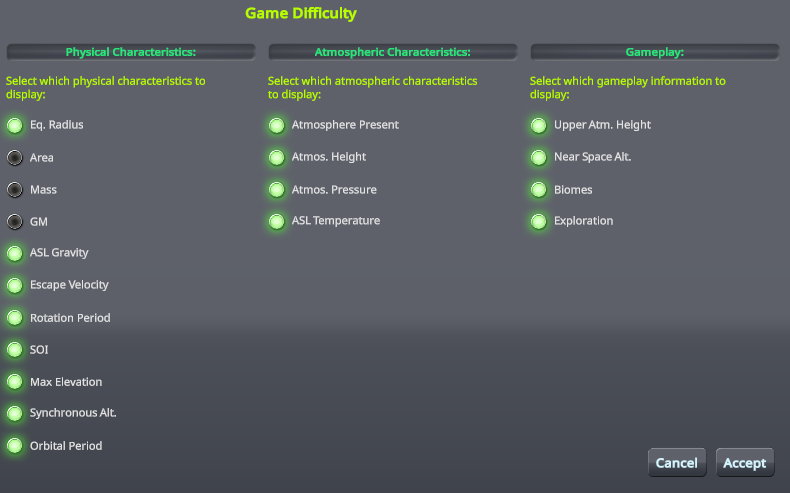
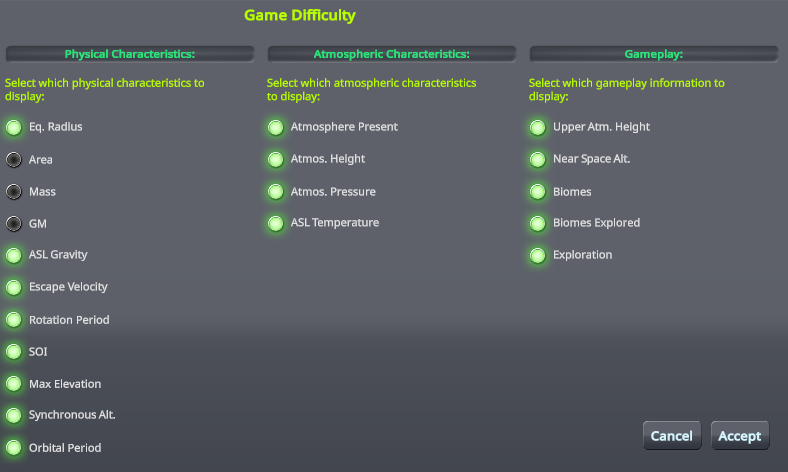
Release 1.4. Add 'explored biomes' field. Performance bugfix.

Changed region(s): [[0.0, 0.089, 0.9746, 0.9788], [0.7919, 0.8898, 1.0, 0.9788], [0.3046, 0.0, 0.4569, 0.0593]]

diff --git a/src/ExploredBiomes.cs b/src/ExploredBiomes.cs
@@ -1,0 +1,120 @@
+using System.Collections.Generic;
+
+namespace PlanetInfoPlus
+{
+    /// <summary>
+    /// Keeps track of which biomes have been "explored" (science data returned for them).
+    /// </summary>
+    internal static class ExploredBiomes
+    {
+        private static readonly Dictionary<string, Dictionary<string, List<string>>> subjectIdsByBodyBiome = new Dictionary<string, Dictionary<string, List<string>>>();
+
+        private static readonly List<ExperimentSituations> relevantSituations = new List<ExperimentSituations>();
+
+        /// <summary>
+        /// Add a situation to the list of situations whose experimental results
+        /// qualify as "exploring" a biome.
+        /// </summary>
+        /// <param name="situation"></param>
+        public static void AddSituation(ExperimentSituations situation)
+        {
+            if (!relevantSituations.Contains(situation))
+            {
+                relevantSituations.Add(situation);
+            }
+        }
+
+        /// <summary>
+        /// Gets the number of biomes on the body that are "explored".
+        /// </summary>
+        /// <param name="body"></param>
+        /// <returns></returns>
+        public static int GetExploredBiomeCount(CelestialBody body)
+        {
+            if (!IsScienceMode) return 0;
+            if (body.BiomeCount() == 0) return 0;
+            int exploredCount = 0;
+            for (int i = 0; i < body.BiomeMap.Attributes.Length; ++i)
+            {
+                string biome = body.BiomeMap.Attributes[i].name;
+                if (IsBiomeExplored(body, biome)) ++exploredCount;
+            }
+            return exploredCount;
+        }
+
+        private static bool IsScienceMode
+        {
+            get { return ResearchAndDevelopment.Instance != null; }
+        }
+
+        /// <summary>
+        /// Given a celestial body and a biome, get whether that biome is "explored".
+        /// </summary>
+        /// <param name="body"></param>
+        /// <param name="biome"></param>
+        /// <returns></returns>
+        private static bool IsBiomeExplored(CelestialBody body, string biome)
+        {
+            List<string> subjectIds = GetBodyBiomeSubjectIds(body, biome);
+            for (int i = 0; i < subjectIds.Count; ++i)
+            {
+                if (ResearchAndDevelopment.GetSubjectByID(subjectIds[i]) != null) return true;
+            }
+            return false;
+        }
+
+        /// <summary>
+        /// Given a celestial body, get a list of all the subject IDs that are relevant
+        /// for determining whether a given biome is explored.
+        /// </summary>
+        /// <param name="body"></param>
+        /// <returns></returns>
+        private static List<string> GetBodyBiomeSubjectIds(CelestialBody body, string biome)
+        {
+            // First, look up by celestial body
+            Dictionary<string, List<string>> subjectIdsByBiome;
+            if (!subjectIdsByBodyBiome.TryGetValue(body.name, out subjectIdsByBiome))
+            {
+                subjectIdsByBiome = new Dictionary<string, List<string>>();
+                subjectIdsByBodyBiome.Add(body.name, subjectIdsByBiome);
+            }
+
+            // Next, look up by biome
+            List<string> subjectIds;
+            if (!subjectIdsByBiome.TryGetValue(biome, out subjectIds))
+            {
+                subjectIds = new List<string>();
+                subjectIdsByBiome.Add(biome, subjectIds);
+                List<string> allExperimentIds = ResearchAndDevelopment.GetExperimentIDs();
+                for (int i = 0; i < allExperimentIds.Count; ++i)
+                {
+                    ScienceExperiment experiment = ResearchAndDevelopment.GetExperiment(allExperimentIds[i]);
+                    for (int j = 0; j < relevantSituations.Count; ++j)
+                    {
+                        ExperimentSituations situation = relevantSituations[j];
+                        if (!experiment.BiomeIsRelevantWhile(situation)) continue;
+                        subjectIds.Add(SubjectIdOf(experiment, situation, body, biome));
+                    }
+                }
+            }
+
+            return subjectIds;
+        }
+
+        private static string SubjectIdOf(
+            ScienceExperiment experiment,
+            ExperimentSituations situation,
+            CelestialBody body,
+            string biome)
+        {
+            if (experiment.BiomeIsRelevantWhile(situation))
+            {
+                return experiment.id + "@" + body.name + situation.ToString() + biome.Replace(" ", string.Empty);
+            }
+            else
+            {
+                return experiment.id + "@" + body.name + situation.ToString();
+            }
+        }
+    }
+}

diff --git a/src/PlanetInfoPlus.cs b/src/PlanetInfoPlus.cs
@@ -31,7 +31,7 @@ namespace PlanetInfoPlus
         /// <exception cref="NotImplementedException"></exception>
         private bool OnAppActivated(KbApp_PlanetParameters app, MapObject target)
         {
-            Logging.Log("App activated for " + app.currentBody.GetDisplayName());
+            Logging.Log("App activated for " + app.currentBody.name);
 
             // We'll clear out the list and rebuild it from scratch.
             app.appFrame.scrollList.Clear(true);
@@ -144,6 +144,14 @@ namespace PlanetInfoPlus
                 list.Add(CreateParam_UpperAtmosphereHeight(app));
             if (GameplaySettings.Instance.showNearSpaceHight) list.Add(CreateParam_NearSpaceHeight(app));
             if (GameplaySettings.Instance.showBiomeCount)     list.Add(CreateParam_BiomeCount(app));
+            if (GameplaySettings.Instance.showExploredBiomeCount
+                && (ResearchAndDevelopment.Instance != null) // only show in a game that has science
+                && (app.currentBody.BiomeCount() > 0) // only show for bodies with biomes
+                && (app.currentBody.IsExplored() || !GameplaySettings.Instance.showExploration))
+                // ^ don't bother showing "explored biomes: none" if it also says "exploration: none"
+            {
+                list.Add(CreateParam_ExploredBiomeCount(app));
+            }
             if (GameplaySettings.Instance.showExploration)    list.Add(CreateParam_Exploration(app));
 
             return list;
@@ -360,6 +368,28 @@ namespace PlanetInfoPlus
                 app.cascadingList,
                 Strings.BIOME_COUNT,
                 (numBiomes > 0) ? numBiomes.ToString() : Strings.NONE);
+        }
+
+        private static UIListItem CreateParam_ExploredBiomeCount(KbApp_PlanetParameters app)
+        {
+            int numExploredBiomes = app.currentBody.ExploredBiomeCount();
+            string text;
+            if (numExploredBiomes == 0)
+            {
+                text = Strings.NONE;
+            }
+            else if (numExploredBiomes == app.currentBody.BiomeCount())
+            {
+                text = Strings.ALL;
+            }
+            else
+            {
+                text = numExploredBiomes.ToString();
+            }
+            return CreateBody(
+                app.cascadingList,
+                Strings.EXPLORED_BIOME_COUNT,
+                text);
         }
 
         private static UIListItem CreateParam_Exploration(KbApp_PlanetParameters app)

diff --git a/src/KSCBehavior.cs b/src/KSCBehavior.cs
@@ -13,19 +13,22 @@ namespace PlanetInfoPlus
         /// </summary>
         public void Start()
         {
-            // Spend a few moments pre-calculating highest elevations on the most
-            // relevant celestial bodies. Rationale: This is happening at scene-switch
-            // time, when the player is probably waiting several seconds anwyway,
-            // so they probably won't even notice if it takes just a little longer
-            // to start up. On the other hand, anything that we *don't* pre-calculate
-            // will end up being an interruption of a second or so when they go to the
-            // planetarium view for the first time for a particular body, which is
-            // probably more of a noticeable interruption of gameplay.
-            //
-            // Note that this precalculation is cached across play sessions, so
-            // it won't do this on *every* startup; it'll only do this until
-            // everything is calculated. Should be only a few scene switches.
-            CelestialBodyElevationScanner.Precalculate(4000);
+            if (PhysicalSettings.Instance.showMaxElevation)
+            {
+                // Spend a few moments pre-calculating highest elevations on the most
+                // relevant celestial bodies. Rationale: This is happening at scene-switch
+                // time, when the player is probably waiting several seconds anwyway,
+                // so they probably won't even notice if it takes just a little longer
+                // to start up. On the other hand, anything that we *don't* pre-calculate
+                // will end up being an interruption of a second or so when they go to the
+                // planetarium view for the first time for a particular body, which is
+                // probably more of a noticeable interruption of gameplay.
+                //
+                // Note that this precalculation is cached across play sessions, so
+                // it won't do this on *every* startup; it'll only do this until
+                // everything is calculated. Should be only a few scene switches.
+                CelestialBodyElevationScanner.Precalculate(4000);
+            }
         }
     }
 }

diff --git a/src/ConfigSettings.cs b/src/ConfigSettings.cs
@@ -10,6 +10,7 @@ namespace PlanetInfoPlus
         // Name of the relevant config section for this class.
         public const string CONFIG_NODE_NAME = "Settings";
 
+        private const string EXPLORED_BIOME_SITUATIONS = "exploredBiomeSituations";
         private const string INCLUDE_APPROXIMATE_LOCKED_ROTATION = "includeApproximateLockedRotation";
         private const string LOCKED_ROTATION_MINIMUM = "lockedRotationMinimum";
         private const string LOCKED_ROTATION_MAXIMUM = "lockedRotationMaximum";
@@ -47,6 +48,9 @@ namespace PlanetInfoPlus
                     bool isValid = true;
                     switch (value.name)
                     {
+                        case EXPLORED_BIOME_SITUATIONS:
+                            ParseExploredBiomeSituations(value.value);
+                            break;
                         case INCLUDE_APPROXIMATE_LOCKED_ROTATION:
                             includeApproximateLockedRotation = bool.Parse(value.value);
                             break;
@@ -66,6 +70,28 @@ namespace PlanetInfoPlus
                 catch (FormatException)
                 {
                     Logging.Error("Invalid value " + value.value + " found for " + value.name);
+                }
+            }
+        }
+
+        /// <summary>
+        /// Parses a set of ExperimentSituations values out of a string, delimited by | characters.
+        /// </summary>
+        /// <param name="configValue"></param>
+        private static void ParseExploredBiomeSituations(string configValue)
+        {
+            string[] tokens = configValue.Split('|');
+            for (int i = 0; i < tokens.Length; i++)
+            {
+                string token = tokens[i].Trim();
+                ExperimentSituations situation;
+                if (Enum.TryParse(token, out situation))
+                {
+                    ExploredBiomes.AddSituation(situation);
+                }
+                else
+                {
+                    Logging.Warn("Ignoring unknown ExperimentSituations value '" + token + "'");
                 }
             }
         }

diff --git a/src/PlanetInfoScenario.cs b/src/PlanetInfoScenario.cs
@@ -8,7 +8,7 @@ namespace PlanetInfoPlus
     /// Stores persisted data in the .sfs file. This is where we remember information
     /// to be persisted across play sessions.
     /// </summary>
-    [KSPScenario(ScenarioCreationOptions.AddToAllGames, GameScenes.TRACKSTATION, GameScenes.FLIGHT, GameScenes.SPACECENTER)]
+    [KSPScenario(ScenarioCreationOptions.AddToAllGames, GameScenes.SPACECENTER)]
     class PlanetInfoScenario : ScenarioModule
     {
         private const string TIMESTAMP = "PlanetInfoPlusTimestamp";
@@ -27,7 +27,15 @@ namespace PlanetInfoPlus
         public override void OnLoad(ConfigNode node)
         {
             base.OnLoad(node);
-            SurfacePoint.maxPlanetElevations.Clear();
+
+            // There's only one time that we ever want to *actually* load the max elevation
+            // data out of the scenario from the game's savefile, and that's on first
+            // run when loading up the game. If we have any entries already in memory,
+            // it means some combination of "we already loaded them from the savefile before"
+            // and/or "we've been calculating some additional values ourselves". So, if we
+            // already have anything in RAM, don't read anything from the savefile and just
+            // skip the rest of this processing.
+            if (SurfacePoint.maxPlanetElevations.Count > 0) return;
 
             // Check timestamp. If our previous cached information has the wrong timestamp
             // on it, then clear the cache.
@@ -75,6 +83,7 @@ namespace PlanetInfoPlus
         public override void OnSave(ConfigNode node)
         {
             base.OnSave(node);
+
             if (SurfacePoint.maxPlanetElevations.Count == 0) return;
 
             Logging.Log("Writing cache timestamp: " + timestamp);

diff --git a/src/Strings.cs b/src/Strings.cs
@@ -42,6 +42,7 @@ namespace PlanetInfoPlus
         // Misc
         public static readonly string YES = Localizer.Format("#autoLOC_439855");
         public static readonly string NO = Localizer.Format("#autoLOC_439856");
+        public static readonly string ALL = Localizer.Format("#autoLOC_900712");
         public static readonly string NONE = Localizer.Format("#autoLOC_6003000");
         public static readonly string NOT_APPLICABLE = Localizer.Format("#autoLOC_258912");
 
@@ -57,6 +58,7 @@ namespace PlanetInfoPlus
         public static readonly string UPPER_ATMOSPHERE_HEIGHT = Localizer.Format(Tags.UPPER_ATMOSPHERE_HEIGHT);
         public static readonly string NEAR_SPACE_HEIGHT = Localizer.Format(Tags.NEAR_SPACE_HEIGHT);
         public static readonly string BIOME_COUNT = Localizer.Format(Tags.BIOME_COUNT);
+        public static readonly string EXPLORED_BIOME_COUNT = Localizer.Format(Tags.EXPLORED_BIOME_COUNT);
         public static readonly string EXPLORATION = Localizer.Format(Tags.EXPLORATION);
         public static readonly string PROGRESS_PLANTED_FLAG = Localizer.Format("#PlanetInfoPlus_plantedFlag");
         public static readonly string PROGRESS_LANDING_CREWED = Localizer.Format("#PlanetInfoPlus_landingCrewed");
@@ -112,6 +114,7 @@ namespace PlanetInfoPlus
             public const string UPPER_ATMOSPHERE_HEIGHT = "#PlanetInfoPlus_upperAtmosphereHeight";
             public const string NEAR_SPACE_HEIGHT = "#PlanetInfoPlus_nearSpaceHeight";
             public const string BIOME_COUNT = "#PlanetInfoPlus_biomeCount";
+            public const string EXPLORED_BIOME_COUNT = "#PlanetInfoPlus_exploredBiomeCount";
             public const string EXPLORATION = "#PlanetInfoPlus_exploration";
         }
     }

diff --git a/src/CelestialBodyExtensions.cs b/src/CelestialBodyExtensions.cs
@@ -127,12 +127,28 @@ namespace PlanetInfoPlus
         /// <returns></returns>
         public static bool IsExplored(this CelestialBody body)
         {
+            if (body.isHomeWorld) return true; // by definition ;-)
             CelestialBodySubtree progress = body.progressTree;
-            return progress.flyBy.IsComplete
-                || progress.orbit.IsComplete
-                || progress.suborbit.IsComplete
-                || progress.flight.IsComplete
-                || progress.escape.IsComplete;
+            return IsComplete(progress.flyBy)
+                || IsComplete(progress.orbit)
+                || IsComplete(progress.suborbit)
+                || IsComplete(progress.flight)
+                || IsComplete(progress.escape);
+        }
+
+        private static bool IsComplete(ProgressNode node)
+        {
+            return (node != null) && node.IsComplete;
+        }
+
+        /// <summary>
+        /// Gets how many biomes have been explored (returned science data).
+        /// </summary>
+        /// <param name="body"></param>
+        /// <returns></returns>
+        public static int ExploredBiomeCount(this CelestialBody body)
+        {
+            return body.IsExplored() ? ExploredBiomes.GetExploredBiomeCount(body) : 0;
         }
     }
 }

diff --git a/src/GameplaySettings.cs b/src/GameplaySettings.cs
@@ -28,6 +28,7 @@ namespace PlanetInfoPlus
         public bool IsAnyActive => showUpperAtmosphereHeight
             || showNearSpaceHight
             || showBiomeCount
+            || showExploredBiomeCount
             || showExploration;
 
         [GameParameters.CustomStringParameterUI(Strings.Tags.GAMEPLAY_SETTINGS_LABEL, lines = 3)]
@@ -42,6 +43,12 @@ namespace PlanetInfoPlus
 
         [GameParameters.CustomParameterUI(Strings.Tags.BIOME_COUNT)]
         public bool showBiomeCount = true;
+
+        // This setting won't show in sandbox, since "explored biomes" is only
+        // a thing if science exists in the game
+        [GameParameters.CustomParameterUI(Strings.Tags.EXPLORED_BIOME_COUNT,
+            gameMode = GameParameters.GameMode.CAREER | GameParameters.GameMode.SCIENCE)]
+        public bool showExploredBiomeCount = true;
 
         [GameParameters.CustomParameterUI(Strings.Tags.EXPLORATION)]
         public bool showExploration = true;

diff --git a/src/SplashScreen.cs b/src/SplashScreen.cs
@@ -25,6 +25,8 @@ namespace PlanetInfoPlus
             "caipi",       // reporting JNSQ compatibility bug
             "Arrowmaster", // feature suggestions (upper atmosphere height, high/low space boundary)
             "vinix",       // for kindly providing a French translation
+            "eightiesboi", // useful bug report
+            "goldenpeach", // help with French translation
         };
 
         internal void Awake()
